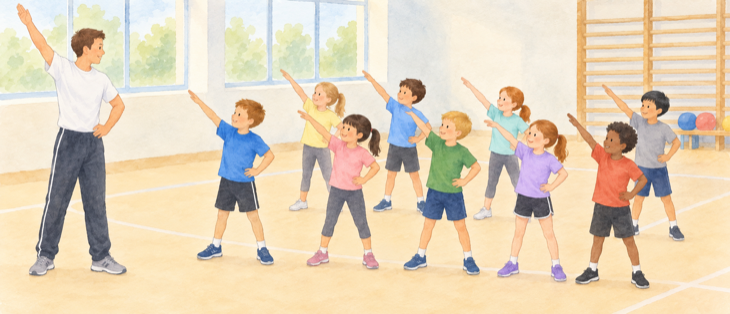
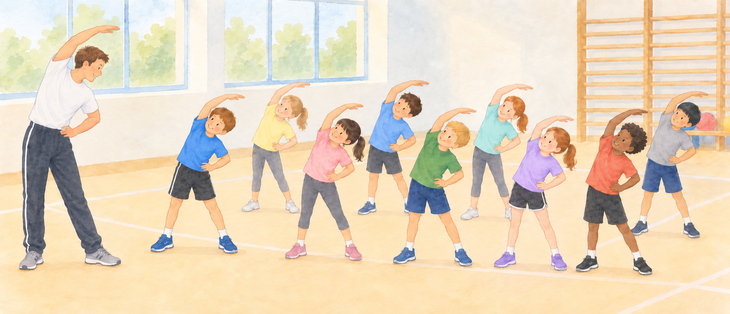
Update gymnastics illustration with synchronized side bends

diff --git a/src/content/revisedAssets.ts b/src/content/revisedAssets.ts
@@ -78,7 +78,7 @@ export const revisedAssets: Record<string, { source: ImageSourcePropType; width:
   'p026_roses_vase': { source: require('../../assets/book2/p026_roses_vase.png'), width: 320, height: 179, alt: "девять роз на разной высоте в простой синей вазе" },
   'p027_pigs_grazing': { source: require('../../assets/book2/p027_pigs_grazing.png'), width: 450, height: 300, alt: "девять отдельных поросят на современной ферме: восемь светлых и один тёмный" },
   'p027_ducks_pond': { source: require('../../assets/book2/p027_ducks_pond.png'), width: 450, height: 321, alt: "девять уток у пруда: восемь плавают отдельно на воде, одна стоит на берегу" },
-  'p028_kids_gymnastics': { source: require('../../assets/book2/p028_kids_gymnastics.png'), width: 730, height: 314, alt: "один взрослый учитель и девять детей делают зарядку в современном школьном спортзале" },
+  'p028_kids_gymnastics': { source: require('../../assets/book2/p028_kids_gymnastics.png'), width: 730, height: 314, alt: "один учитель и девять детей выполняют наклоны вбок в современном школьном спортзале" },
   'p029_boy_toy_train': { source: require('../../assets/book2/p029_boy_toy_train.png'), width: 780, height: 317, alt: "мальчик с современной деревянной игрушечной железной дорогой: девять вагонов уже соединены с локомотивом, десятый вагон у него в руке" },
   'p031_apples_pair_1': { source: require('../../assets/book2/p031_apples_pair_1.png'), width: 220, height: 146, alt: "два яблока на веточке: красное и жёлто-зелёное" },
   'p031_apples_pair_2': { source: require('../../assets/book2/p031_apples_pair_2.png'), width: 212, height: 220, alt: "два яблока на веточке: зелёное и красное" },

diff --git a/docs/ILLUSTRATIONS_REVISION.md b/docs/ILLUSTRATIONS_REVISION.md
@@ -205,7 +205,7 @@
 | `p026_pioneers_marching` | 9 пионеров маршируют, впереди барабанщик | Пионеры, галстуки, барабан | Перерисовано: 9 детей с современными рюкзаками идут на прогулку от школы, 8 позади и 1 ведущий впереди; вопрос в новом режиме спрашивает о детях |
 | `p026_roses_vase` | 9 роз в синей вазе | | Перерисовано: 9 различимых цветков в простой синей вазе на разных высотах, без сетки 5+4 |
 | `p027_ducks_pond`, `p027_pigs_grazing` | 8 уток на воде + 1 на берегу; 8 белых свиней + 1 чёрная | | Перерисовано: 8 отдельных уток на воде и 1 на берегу; 8 светлых поросят и 1 тёмный отдельно на современном пастбище |
-| `p028_kids_gymnastics` | Инструктор и 9 детей на зарядке | Форма, инструктор со свистком | Перерисовано: один взрослый учитель физкультуры и 9 детей в современной спортивной одежде в школьном зале; все 10 фигур видны отдельно |
+| `p028_kids_gymnastics` | Инструктор и 9 детей на зарядке | Форма, инструктор со свистком | Перерисовано: один взрослый учитель физкультуры и 9 детей в современной спортивной одежде в школьном зале; все 10 фигур видны отдельно и выполняют наклоны вбок в одну сторону |
 | `p029_boy_toy_train` | Мальчик на ковре прицепляет 10-й вагон | | Перерисовано: современная деревянная игрушечная железная дорога; 9 вагонов соединены с локомотивом, 10-й отдельно у мальчика в руке |
 | `p030_fir_trees_10` | 10 ёлок в ряд | | Перерисовано вектором: десять простых одинаковых елей на равных промежутках |
 
